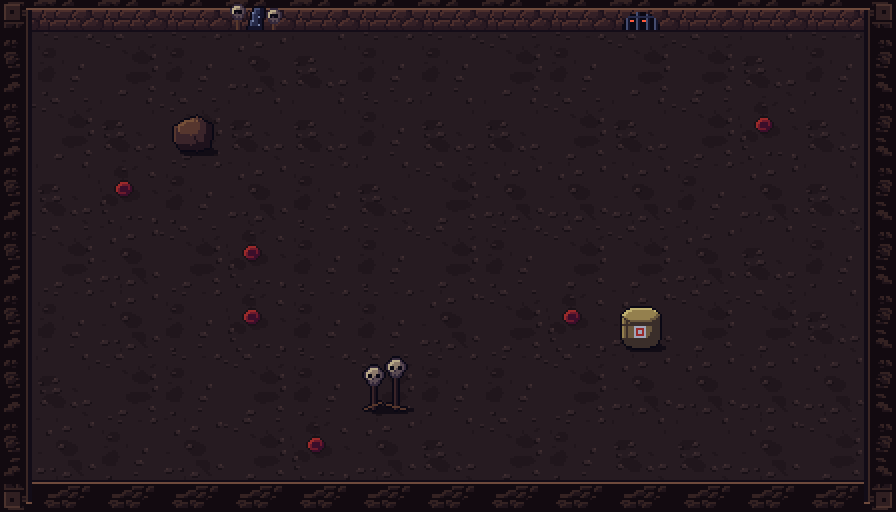
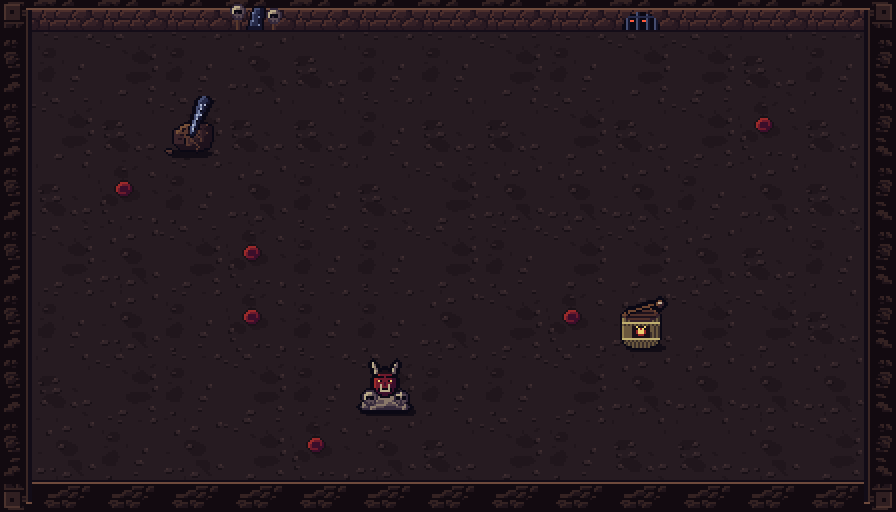
Runde 56: Requisiten Ōeyama (Kanabō im Fels, Komodaru mit Oni-Mon, Knochenhaufen mit Oni-Maske) und Shinkai (Hamaguri mit Perle und Shinkirō, Sango-Koralle mit Leuchtfischen, versunkene Tōrō) in Hi-Res neu
Claude-Session: https://claude.ai/code/session_01KhgxT5dpaDpN19BRyP2Kgo

Changed region(s): [[0.375, 0.6875, 0.4688, 0.8125], [0.6875, 0.5625, 0.75, 0.6875], [0.1875, 0.1875, 0.25, 0.3125]]

diff --git a/art_src/fable/environment/props.py b/art_src/fable/environment/props.py
@@ -795,54 +795,141 @@ def rocks(name):
             cv.hpx(24, y, '#6a2a3a')
 
     elif name == 'oeyama':
-        cv, rng, m = plain_boulder(0)
+        cv, rng, m = plain_boulder(0, rx=11, ry=8)           # Kanabō der Oni, in den Fels gerammt
+        for path in ([(15, 17), (12, 20), (12.5, 23)], [(17, 18), (20, 21)]):     # Einschlagrisse
+            cv.hline(path, K)
+            cv.hline([(x + .5, y + .5) for x, y in path], k[2])
+        kb = capsule(cv, 15.5, 18, 1.4, 21.5, 2.5, 2.7)
+        cv.fill(dil(kb), K)
+        cv.form(kb, IRON[:3], 1, 1)
+        cv.hline([(15.5, 17), (20.5, 3.5)], IRON[3])
+        for i in range(6):                                   # Eisennieten, versetzt
+            t = .12 + i * .16
+            x, y = 15.5 + 6 * t, 18 - 15.5 * t
+            for sx in ((-1.5, 1.3) if i % 2 else (0,)):
+                cv.fill(cv.E(x + sx + .3, y + .3, .7, .7), K)
+                cv.fill(cv.E(x + sx, y, .55, .55), '#b0b8d0')
+        cv.fill(cv.E(16, 17.5, 3, 1.2) & ~kb, k[0])        # Splitter am Einschlag
         out.append(fin(cv, P))
-        cv, rng = new(1)                                     # komodaru sake barrel
-        m, t = cyl(cv, STRAW, 16, 28, 9, 15, top=(STRAW[1], STRAW[2], STRAW[3]))
+
+        cv, rng = new(1)                                     # Komodaru: Strohfass mit Seil, Oni-Mon und Schöpfkelle
+        m, t = cyl(cv, STRAW, 16, 28, 9, 15, top=WOOD[1:])
         side = m & ~t
-        for y in (18, 25):
-            cv.fill(side & (cv.Y == y), STRAW[0])
-        for x in (9, 23):
-            cv.fill(side & (cv.X == x), STRAW[0])
-        cv.rect(13, 19, 18, 24, PAPER[2])
-        cv.rect(14, 20, 17, 23, RED[2])
-        cv.rect(15, 21, 16, 22, PAPER[2])
+        for x in range(8, 25, 2):                            # Strohhalme
+            cv.fill(side & (cv.X >= x) & (cv.X < x + .5), STRAW[1])
+        for y in (17, 25):                                   # Seilbänder
+            bm = side & (cv.Y >= y) & (cv.Y < y + 1.5)
+            cv.fill(bm, STRAW[3])
+            cv.fill(bm & (cv.Y >= y + 1), STRAW[1])
+            for x in range(8, 25, 2):
+                cv.hpx(x, y + .5, STRAW[0])
+        lab = cv.R(12, 18.5, 20, 24.5)                       # Etikett: schwarz mit rotem Oni-Mon
+        cv.fill(lab, '#1a1018')
+        cv.fill(cv.E(16, 21.5, 2.4, 2.4), RED[2])
+        cv.fill(cv.E(16, 21.5, 1.2, 1.2), GOLD[3])
+        for sx in (-1, 1):
+            cv.hline([(16 + sx * 1, 19.6), (16 + sx * 2.2, 18.6)], GOLD[3])     # Hörner im Mon
+        for y in (14.5, 15.5):                               # Holzdeckel mit Fugen
+            cv.hline([(9, y), (23, y)], WOOD[0]) if y < 15 else None
+        cv.hline([(10, 12.5), (22, 12.5)], WOOD[0])
+        h = capsule(cv, 10, 11.5, .5, 25, 7, .5)             # Hishaku-Kelle quer über dem Deckel
+        cv.fill(dil(h), K)
+        cv.fill(h, WOOD[3])
+        cup = cv.E(25.5, 7.5, 2, 1.6)
+        cv.fill(dil(cup), K)
+        cv.form(cup, WOOD[1:], 1, 1)
+        cv.fill(cv.E(25.5, 7, 1.2, .6), '#c8b8a0')         # Sake darin
         out.append(fin(cv, P))
-        cv, rng = new(2)                                     # skulls on stakes
-        w = ('#1c121c', '#3a2428', '#58382c')
-        for (x, top) in ((10, 12), (21, 8)):
-            cv.rect(x, top, x + 1, 28, w[1])
-            cv.vl(x + 1, top, 28, w[0])
-        skull(cv, 10.5, 11, BONE, r=3.8)
-        skull(cv, 21.5, 7, BONE, r=3.8)
-        cv.line([(6, 28), (14, 25)], w[2])
-        cv.line([(17, 26), (26, 28)], w[2])
+
+        cv, rng = new(2)                                     # Knochenhaufen der Ōeyama-Bande, obenauf eine Oni-Maske
+        heap = cv.E(16, 27, 12, 5) & (cv.Y <= 28)
+        cv.fill(dil(heap), K)
+        cv.form(heap, BONE[:3], 2, 1)
+        for (x0, y0, x1, y1) in ((6, 26, 13, 23), (18, 24, 26, 27), (10, 27, 17, 25), (20, 23, 24, 21)):
+            bone(cv, x0, y0, x1, y1, BONE)
+        skull(cv, 8.5, 22, BONE, r=3)
+        skull(cv, 24, 22.5, BONE, r=2.8)
+        face = cv.E(16, 15, 5.4, 6.2) & (cv.Y <= 21)          # Hannya-artige Oni-Maske, leicht schräg aufgelegt
+        horns = capsule(cv, 12, 10, 1.3, 9.5, 4, .4) | capsule(cv, 20, 10, 1.3, 22.5, 4, .4)
+        cv.fill(dil(face | horns), K)
+        cv.form(horns, BONE[1:], 1, 1)
+        cv.form(face, RED, 2, 1)
+        cv.fill(face & (cv.Y < 10.5), '#1a1018')           # Haaransatz
+        for sx in (-1, 1):
+            br = cv.PG([(16 + sx * 1, 12.5), (16 + sx * 4.2, 11), (16 + sx * 4, 12.5)])
+            cv.fill(br, K)
+            cv.fill(cv.E(16 + sx * 2.3, 14.2, 1.1, .8), GOLD[3])
+            cv.hpx(16 + sx * 2.3, 14.2, K)
+        cv.fill(cv.R(13, 18, 19, 19.5), K)                  # Maul mit Hauern
+        for x in (13.5, 18):
+            cv.hline([(x, 18), (x, 16.5)], BONE[3])
+        cv.hline([(14.5, 19), (17.5, 19)], BONE[3])
+        cv.hline([(15.5, 15), (16.5, 16)], RED[0])
         out.append(fin(cv, P))
 
     elif name == 'shinkai':
-        cv, rng = new(0)                                     # brain coral
-        m = cv.E(16, 21, 10.4, 8.4) & (cv.Y <= 28)
-        cv.form(m, (k[0], k[1], k[2]), 4, 1)
-        for pts in ([(8, 20), (11, 17), (14, 19), (17, 16), (20, 18)], [(9, 24), (13, 22), (16, 24), (20, 22), (23, 24)],
-                    [(12, 14), (15, 13), (18, 14)]):
-            cv.line(pts, k[0])
-            cv.line([(x, y + 1) for x, y in pts], k[3] if pts[0][1] < 21 else k[2])
+        cv, rng = new(0)                                     # Riesenmuschel: die Hamaguri atmet ein Shinkirō aus
+        lo = cv.E(16, 23, 11, 5.2) & (cv.Y >= 21)
+        up = cv.E(16, 21, 11, 7.5) & (cv.Y <= 21) & ~cv.R(0, 0, 32, 13)
+        cv.fill(dil(lo | up), K)
+        cv.form(up, (k[1], k[2], k[3]), 2, 1)
+        cv.form(lo, (k[0], k[1], k[2]), 2, 1)
+        for x in range(8, 26, 3):                            # Rippen
+            cv.hline([(16 + (x - 16) * .4, 15), (x, 20)], k[1])
+            cv.hline([(x, 22.5), (16 + (x - 16) * .9, 27)], k[0])
+        gap = cv.E(16, 21.6, 9.5, 1.3)
+        cv.fill(gap, K)
+        cv.fill(cv.E(16, 21.6, 1.8, 1.4), GLOW[3])         # Perle
+        cv.hpx(15.5, 21, '#ffffff')
+        cv.fill(cv.E(16, 21.6, 6, .6) & ~cv.E(16, 21.6, 2, 2), GLOW[1])
         out.append(fin(cv, P))
-        cv, rng = new(1)                                     # glowing tube sponges
-        for (x, h, r) in ((9, 12, 3), (22, 15, 3.2), (15.5, 21, 3.6)):
-            m, t = cyl(cv, k, x, 28, r, h, top=(GLOW[0], GLOW[1], GLOW[2]))
-            cv.fill(cv.E(x, 28 - h, r - 1.4, 1), K)
+        for i, (x, y) in enumerate(((16, 11), (15, 9), (17, 7), (16, 5), (14, 3.5), (19, 4))):   # Spiegelbild-Dunst
+            cv.hpx(x, y, GLOW[2] if i < 3 else GLOW[1])
+            cv.hpx(x + .5, y - .5, GLOW[1])
+
+        cv, rng = new(1)                                     # Sango-Koralle mit Leuchtfischen
+        rc = ('#3a0e2a', '#7a1a3a', '#b03a4a', '#e07a6a')
+        br = np.zeros_like(cv.m)
+        for (x0, y0, x1, y1, r) in ((16, 28, 15, 15, 1.6), (15, 15, 10, 8, 1), (15, 17, 21, 9, 1.1), (21, 9, 24, 5, .7),
+                                    (12, 11, 8, 13, .7), (19, 12, 18, 6, .7), (16, 22, 24, 17, 1), (24, 17, 26, 13, .6),
+                                    (15, 23, 7, 19, .9), (7, 19, 6, 15, .6)):
+            br |= capsule(cv, x0, y0, r + .3, x1, y1, r)
+        cv.fill(dil(br), K)
+        cv.form(br, rc[:3], 1, 1)
+        for (x, y) in ((10, 8), (24, 5), (18, 6), (8, 13), (26, 13), (6, 15)):
+            cv.hpx(x, y, rc[3])
+        rock = cv.E(16, 28, 5, 2) & (cv.Y <= 28)
+        cv.form(rock, k[:3], 1, 1)
         out.append(fin(cv, P))
-        cv, rng = new(2)                                     # giant spiral shell
-        s = (P['shell'][0], P['shell'][1], P['shell'][2], '#6a8a98')
-        m = cv.E(15, 19, 10.4, 9) & (cv.Y <= 28)
-        cv.form(m, (s[0], s[1], s[2]), 4, 1)
-        for (rx, ry) in ((7, 6), (4, 3.4)):
-            ring = (cv.E(14, 18, rx, ry) & ~cv.E(14.6, 18.6, rx - 1, ry - 1)) & m
-            cv.fill(ring, s[0])
-        cv.fill(cv.E(13.5, 18, 1.4, 1.2), s[3])
-        cv.fill(cv.PG([(22, 22), (27, 24), (27, 28), (20, 28)]), s[1])
-        cv.fill(cv.PG([(23, 24), (26, 25), (26, 27), (22, 27)]), K)
+        for (x, y, d) in ((5, 8, 1), (26, 21, -1)):          # Leuchtfische
+            f = cv.E(x, y, 1.6, .9) | cv.PG([(x - d * 1.4, y), (x - d * 2.8, y - 1), (x - d * 2.8, y + 1)])
+            cv.fill(f, GLOW[2])
+            cv.fill(f & (cv.Y > y + .2), GLOW[1])
+            cv.hpx(x + d * .8, y - .2, K)
+            cv.hpx(x - d * .2, y - .5, GLOW[3])
+
+        cv, rng = new(2)                                     # versunkene Tōrō-Steinlaterne mit Seepocken, Licht noch an
+        st = k
+        base = cv.R(11, 25, 21, 28)
+        post = cv.R(14, 18, 18, 25)
+        fbox = cv.R(11.5, 11, 20.5, 17)
+        roof = cv.PG([(7, 11), (10, 8), (16, 5.5), (22, 8), (25, 11), (23, 10.5), (9, 10.5)])
+        cap = cv.E(16, 5, 1.4, 1.6)
+        sil = base | post | fbox | roof | cap | cv.R(12, 17, 20, 18)
+        cv.fill(dil(sil), K)
+        for part in (base, post, fbox, cv.R(12, 17, 20, 18), roof, cap):
+            cv.form(part, (st[0], st[1], st[2]), 1, 1)
+        cv.fill(cv.R(13.5, 12.5, 18.5, 15.5), K)            # Lichtfenster
+        cv.fill(cv.E(16, 14, 2, 1.4), GLOW[2])
+        cv.fill(cv.E(16, 14, 1, .7), GLOW[3])
+        cv.hline([(9, 10), (23, 10)], st[3])
+        for (x, y) in ((12, 26), (19.5, 25.5), (14.5, 20), (21, 9), (8.5, 10.5), (17.5, 22.5)):   # Seepocken
+            cv.hpx(x, y, BONE[3])
+            cv.hpx(x + .5, y + .5, BONE[1])
+        for (x0, h, s) in ((10, 9, 1), (22, 12, -1), (20, 6, 1)):   # Seetang windet sich hoch
+            pts = [(x0 + math.sin(i * .9) * s, 28 - i) for i in range(h)]
+            cv.hline(pts, MOSS[2])
+            cv.hline([(x + .5, y) for x, y in pts], MOSS[1])
         out.append(fin(cv, P))
 
     elif name == 'enma_cho':

diff --git a/CHANGELOG.md b/CHANGELOG.md
@@ -77,6 +77,7 @@
 - Runde 53 – Die Startgeste ist jetzt ganz zu sehen: Die Unverwundbarkeit zu Laufbeginn blinkt nicht mehr, solange deine Figur ihre Geste zeigt (ein Treffer beendet die Geste sofort)
 - Runde 54 – Neuer Erfolg **Alle Lose**: Ziehe am Omikuji-Schrein einmal Daikichi, Kichi, Chūkichi, Shōkichi und Kyō (Daikyō zählt als Kyō) – die gezogenen Lose bleiben über alle Läufe gespeichert
 - Runde 55 – **Ama-no-Iwato, Teil 1:** Neues Biom für den zweiten geheimen Weg in Kapitel VII – die Felsenhöhle, in der sich Amaterasu verborgen hat: dunkle Granitplatten mit eingelassenen Sonnenscheiben aus Blattgold, Fels mit Goldadern, Shimenawa vor dem Felsentor, Feuerkörbe der wartenden Götter. Requisiten aus der Sage: Sakaki-Baum mit Yata-Spiegel, Magatama und Shide, der Langschwanzhahn Tokoyo no Nagadori und der umgedrehte Bottich, auf dem Ame-no-Uzume tanzte
+- Runde 56 – Requisiten Ōeyama und Shinkai in Hi-Res neu: Kanabō der Oni im Fels (mit Eisennieten und Einschlagrissen), Strohfass Komodaru mit Oni-Mon und Schöpfkelle, Knochenhaufen mit roter Oni-Maske; Riesenmuschel mit Perle, die ein Shinkirō ausatmet, Sango-Koralle mit Leuchtfischen, versunkene Tōrō-Steinlaterne mit Seepocken und Seetang
 
 ## 1.4.0 – „Hyakki-Update“ (enthält 1.3 „Kapitel-Update“)
 
